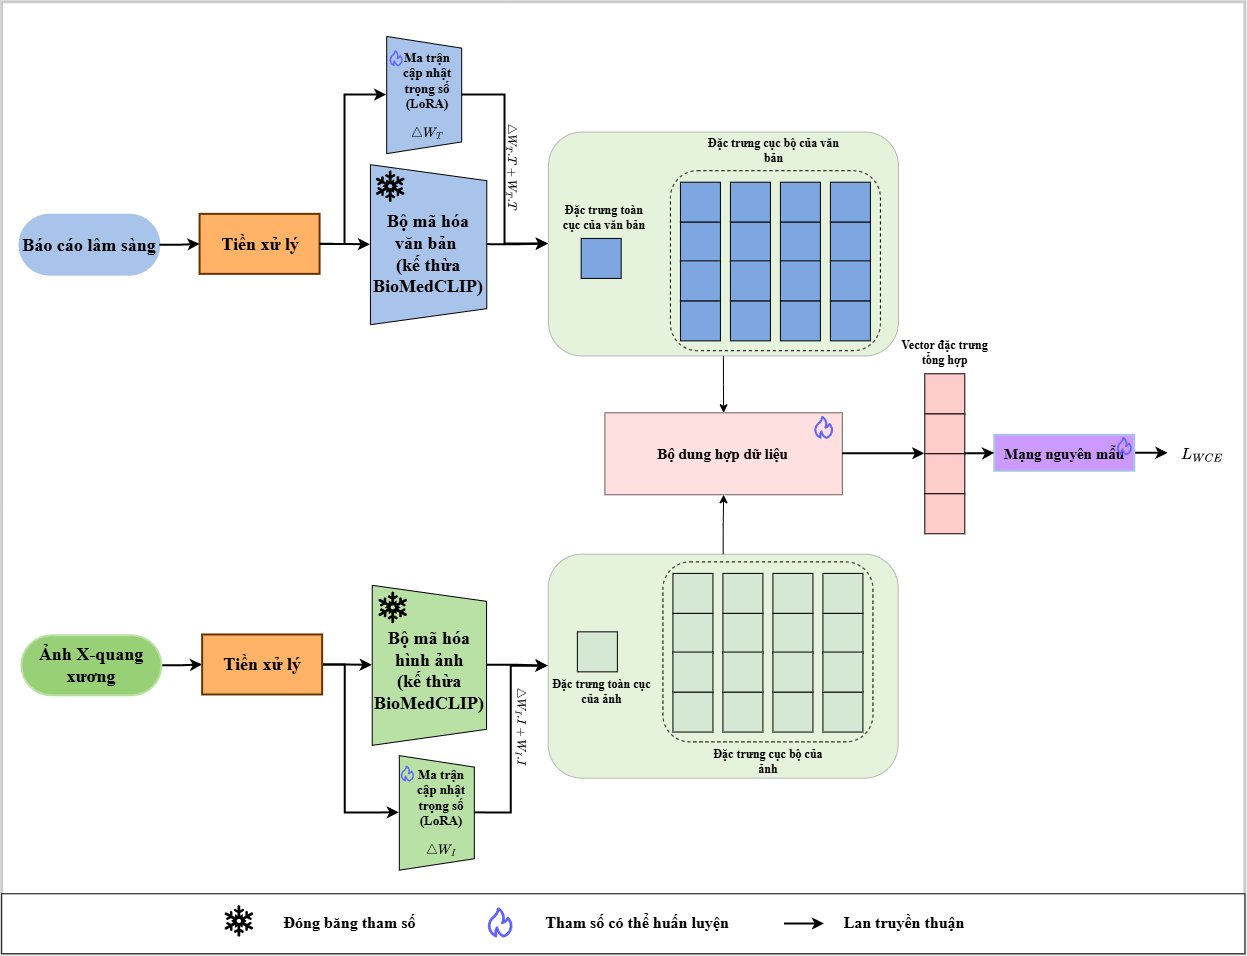
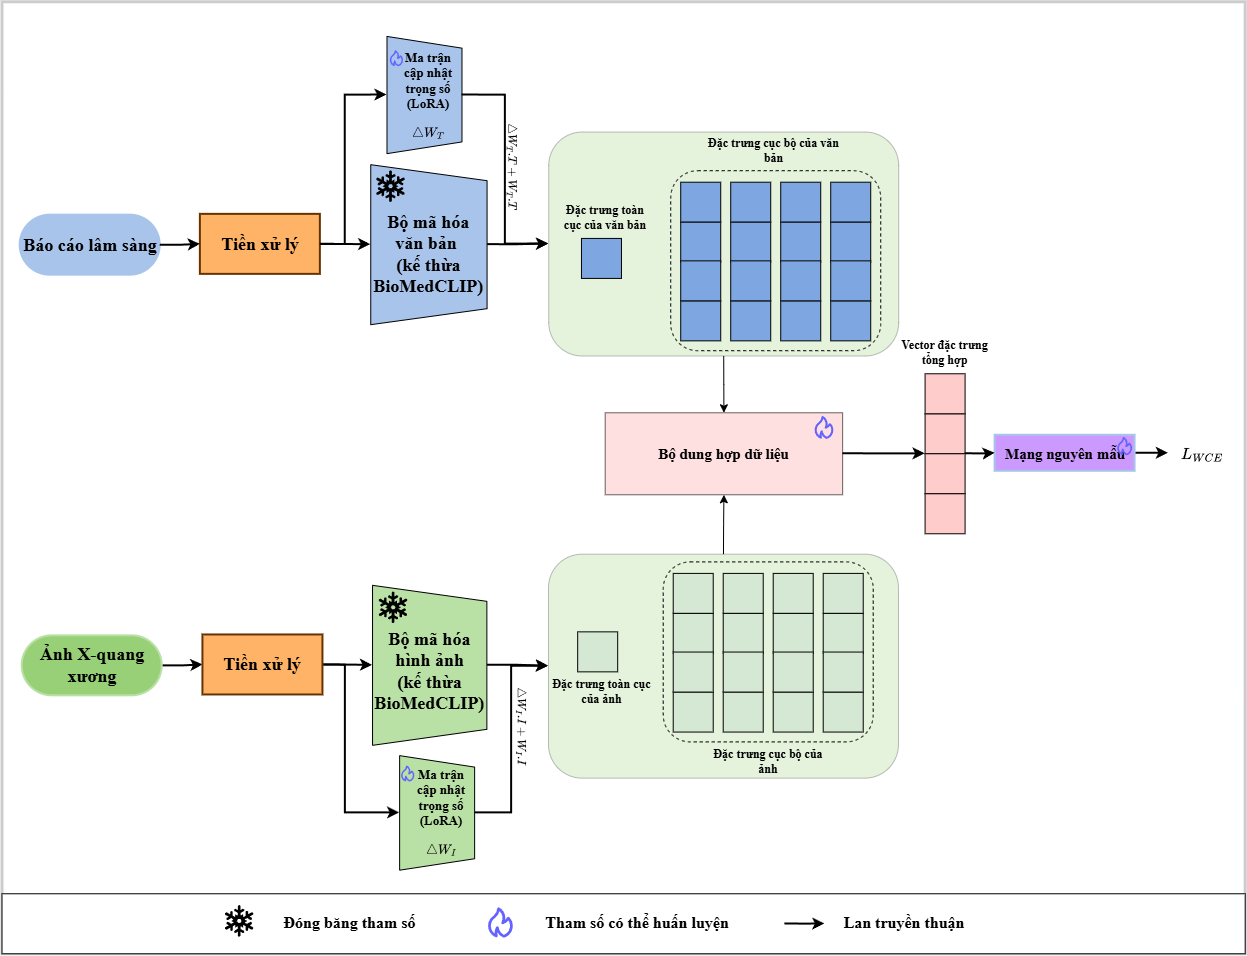
update images

diff --git a/docs/report/Chapter2/chapter2.tex b/docs/report/Chapter2/chapter2.tex
@@ -19,7 +19,7 @@ Các mô hình ngôn ngữ trực quan đánh dấu một bước tiến quan tr
 
 Chiến lược \textbf{học tương phản} là hướng tiếp cận được ứng dụng rộng rãi nhất. Nguyên lý của chiến lược này là tối ưu hóa không gian biểu diễn bằng cách thu hẹp khoảng cách giữa các cặp đặc trưng ảnh - văn bản tương đồng, đồng thời đẩy các cặp khác biệt ra xa nhau.
 
-ConVIRT \cite{ConVIRT} là nghiên cứu tiên phong áp dụng học tương phản cho dữ liệu y khoa, sử dụng ResNet50 và BERT để tối ưu bộ mã hóa ảnh và văn bản, đạt độ chính xác 90,3\% trên bộ dữ liệu COVIDx. GLoRIA \cite{GLoRIA} mở rộng hướng tiếp cận này bằng cách kết hợp hai hàm mất mát toàn cục và cục bộ, cho phép căn chỉnh chi tiết giữa các vùng trong ảnh và các từ trong câu. MedCLIP \cite{MedCLIP} đề xuất cơ chế tách cặp và trích xuất tri thức cùng hàm mất mát khớp ngữ nghĩa nhằm giải quyết vấn đề âm tính giả — khi các cặp dữ liệu bị ghép nhầm dù chúng có chung đặc điểm bệnh lý. BiomedCLIP \cite{BiomedCLIP} kế thừa kiến trúc CLIP với bộ mã hóa ViT-Base và PubMedBERT, được tiền huấn luyện trên 15 triệu cặp dữ liệu từ tập PMC-15M, đạt độ chính xác phân loại 83\%, giúp mô hình có độ phủ và khả năng tổng quát tốt với nhiều nguồn dữ liệu và tác vụ y khoa.
+ConVIRT \cite{ConVIRT} là nghiên cứu tiên phong áp dụng học tương phản cho dữ liệu y khoa, sử dụng ResNet50 và BERT để tối ưu bộ mã hóa ảnh và văn bản, đạt độ chính xác 90,3\% trên bộ dữ liệu COVIDx. GLoRIA \cite{GLoRIA} mở rộng hướng tiếp cận này bằng cách kết hợp hai hàm mất mát toàn cục và cục bộ, cho phép căn chỉnh chi tiết giữa các vùng trong ảnh và các từ trong câu. MedCLIP \cite{MedCLIP} đề xuất cơ chế tách cặp và trích xuất tri thức cùng hàm mất mát khớp ngữ nghĩa nhằm giải quyết vấn đề âm tính giả - khi các cặp dữ liệu bị ghép nhầm dù chúng có chung đặc điểm bệnh lý. BiomedCLIP \cite{BiomedCLIP} kế thừa kiến trúc CLIP với bộ mã hóa ViT-Base và PubMedBERT, được tiền huấn luyện trên 15 triệu cặp dữ liệu từ tập PMC-15M, đạt độ chính xác phân loại 83\%, giúp mô hình có độ phủ và khả năng tổng quát tốt với nhiều nguồn dữ liệu và tác vụ y khoa.
 
 Ngoài học tương phản, các hướng tiếp cận khác bao gồm \textbf{học có che giấu} và \textbf{tích hợp tri thức y khoa}. Tuy nhiên, các phương pháp này thường phụ thuộc vào nguồn dữ liệu ghép cặp sẵn hoặc đồ thị tri thức chuyên biệt, hạn chế khả năng ứng dụng trên các bài toán không có sẵn nguồn tri thức ngoài.
 
